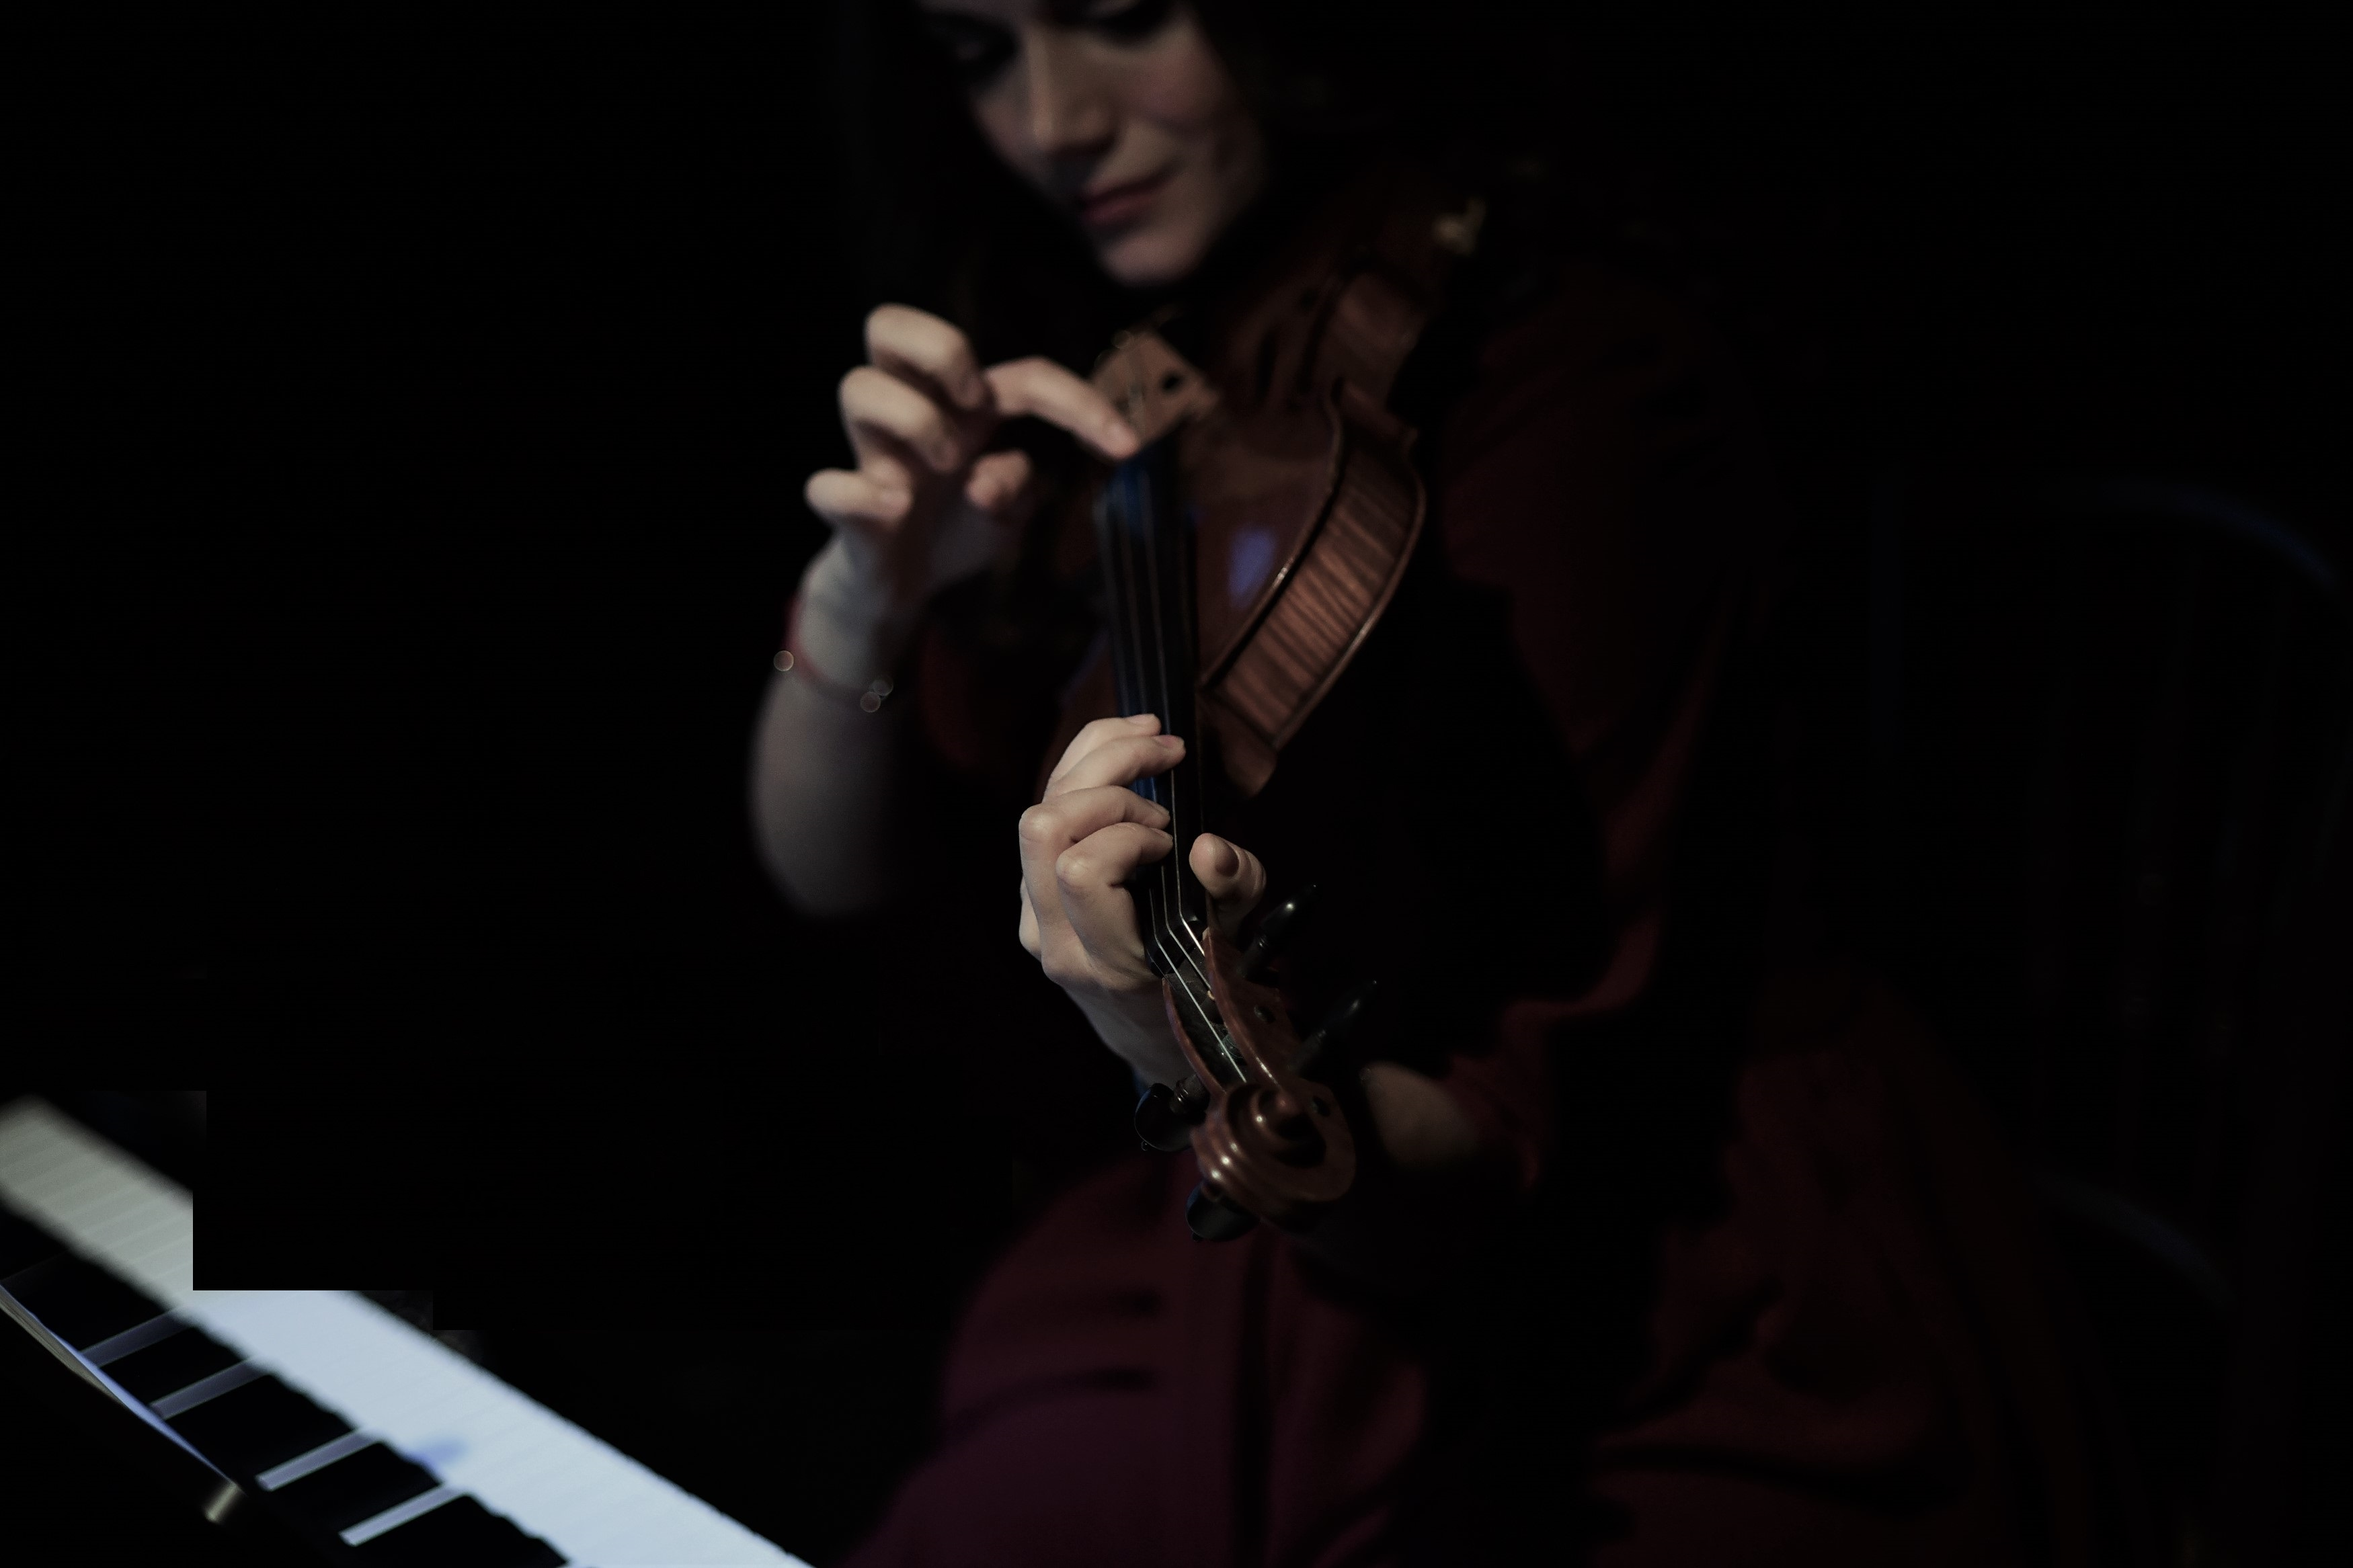
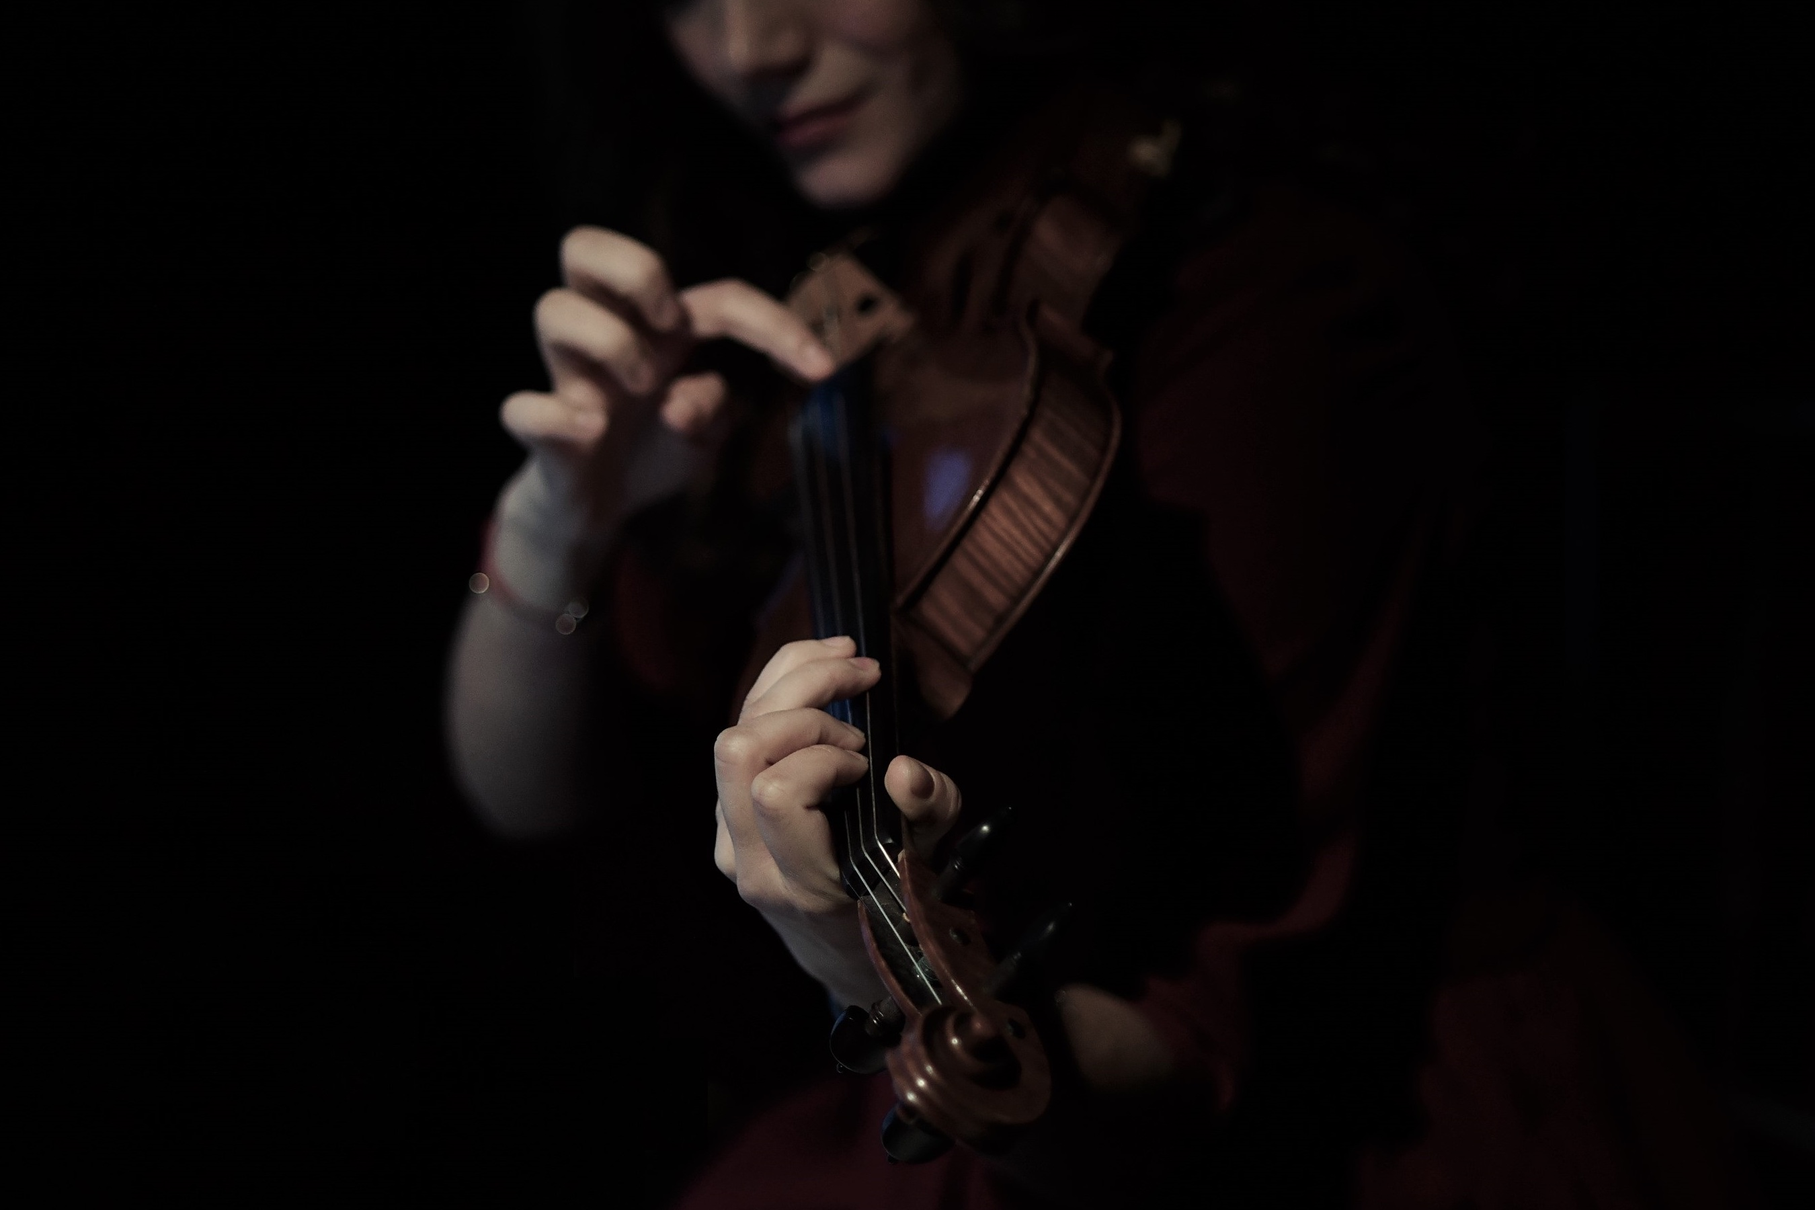
edit stay in touch photo

diff --git a/en/index.html b/en/index.html
@@ -126,7 +126,7 @@
     </div>
 
     <!-- STAY IN TOUCH -->
-    <section class="section stay-in-touch inverse-color parallax-section" data-parallax-image="../assets/images/demo/stay-in-touch/stayintouch2.jpg" id="anchor02">
+    <section class="section stay-in-touch inverse-color parallax-section" data-parallax-image="../assets/images/demo/stay-in-touch/stayintouch3.jpg" id="anchor02">
         <div class="container">
             <div class="row">
                 <div class="col-xs-12 col-md-6">

diff --git a/gr/index.html b/gr/index.html
@@ -126,7 +126,7 @@
     </div>
 
     <!-- STAY IN TOUCH -->
-    <section class="section stay-in-touch inverse-color parallax-section" data-parallax-image="../assets/images/demo/stay-in-touch/stayintouch2.jpg" id="anchor02">
+    <section class="section stay-in-touch inverse-color parallax-section" data-parallax-image="../assets/images/demo/stay-in-touch/stayintouch3.jpg" id="anchor02">
         <div class="container">
             <div class="row">
                 <div class="col-xs-12 col-md-6">
